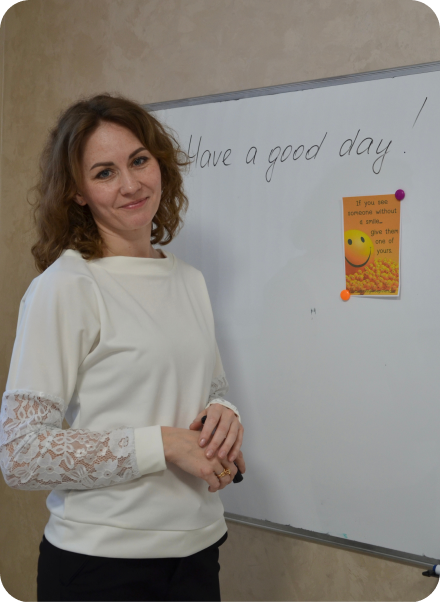
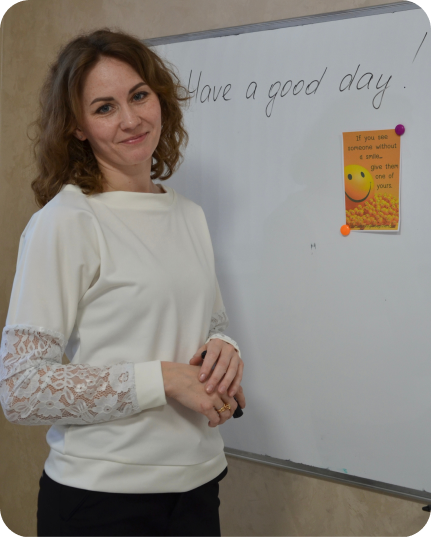
add teachers_cards height_changes

diff --git a/index.html b/index.html
@@ -19,13 +19,18 @@
               <img src="./assets/pictures/Logo.png" alt="Логотип" />
              </div>
              <div class="navigation1" id="navigation1">
-              <a href="#directions"><b>Направления<br>и стоимость</b></a>
-              <a href="#teachers"><b>Педагоги</b></a>
-              <a href="#promotions"><b>Акции</b></a>
-              <a href="#contacts"><b>Контакты</b></a>
-              <a href="https://t.me/hochu_uchitsya_kld"><img src="./assets/pictures/telegram.png" alt="Telegram" /></a>
-              <a href="https://t.me/hochu_uchitsya_kld"><img src="./assets/pictures/vk.png" alt="VK" /></a>
-               <a href="https://wa.me/79992558055"><img src="./assets/pictures/whatsup.png" alt="WhatsApp" /></a>
+              <a href="#"><b>Направления<br>и стоимость</b></a>
+              <a href="#"><b>Педагоги</b></a>
+              <a href="#"><b>Акции</b></a>
+              <a href="#"><b>Контакты</b></a>
+             </div>
+             <div class="header-contacts">
+             <div class="contact-icons">
+                <div class="icon-links">
+                    <a href="https://t.me/hochu_uchitsya_kld"><img src="./assets/pictures/telegram.png" alt="Telegram" /></a>
+                    <a href="https://t.me/hochu_uchitsya_kld"><img src="./assets/pictures/vk.png" alt="VK" /></a>
+                    <a href="https://wa.me/79992558055"><img src="./assets/pictures/whatsup.png" alt="WhatsApp" /></a>
+                </div>
                 <a href="tel:+79992558055" class="no-underline"><b>+7 (999) 255-80-55</b></a>
             </div>
         </div>
@@ -37,10 +42,10 @@
         <input type="checkbox" id="burger-checkbox" class="burger-checkbox" />
         <label for="burger-checkbox" class="burger"></label>
         <ul class="menu-list">
-          <li><a href="#directions" class="menu-item">Направления и стоимость</a></li>
-          <li><a href="#teachers" class="menu-item">Педагоги</a></li>
-          <li><a href="#promotions" class="menu-item">Акции</a></li>
-          <li><a href="#contacts" class="menu-item">Контакты</a></li>
+          <li><a href="/home" class="menu-item">Направления и стоимость</a></li>
+          <li><a href="/portfolio" class="menu-item">Педагоги</a></li>
+          <li><a href="/services" class="menu-item">Акции</a></li>
+          <li><a href="/contact" class="menu-item">Контакты</a></li>
         </ul>
       </div>
     </div>
@@ -71,7 +76,7 @@
     <main>
       
       <!-- Раздел "Направления" с карточками -->
-      <div class="directions" id="directions">
+      <div class="directions">
         <div class="directions__title">Направления</div>
         <div class="directions__cards">
           <div class="card__box" id="card__1">
@@ -275,14 +280,14 @@
       </section>
 
       <!--Раздел Педагоги-->
-      <div class="teachers" id="teachers">
+      <div class="teachers">
         <h2 class="teachers__title">Педагоги</h2>
         <div class="teachers__cards">
           <div class="card__teacher">
             <img
               src="assets/images/teachers/Irina.png"
               alt="Irina Nikolaevna"
-              class="teachers__pic"
+              class="teachers__pic1"
             />
             <h3 class="teachers__name">Ирина Николаевна</h3>
             <p class="teachers__introduction1">
@@ -297,7 +302,7 @@
             <img
               src="assets/images/teachers/Natalya.png"
               alt="Natalya Valerevna"
-              class="teachers__pic"
+              class="teachers__pic2"
             />
             <h3 class="teachers__name">Наталья Валерьевна</h3>
             <p class="teachers__introduction2">Педагог по английскому языку.</p>
@@ -310,7 +315,7 @@
             <img
               src="assets/images/teachers/Ekaterina_Dmitrievna.png"
               alt="Ekaterina Dmitrievna"
-              class="teachers__pic"
+              class="teachers__pic3"
             />
             <h3 class="teachers__name">Екатерина Дмитриевна</h3>
             <p class="teachers__introduction3">
@@ -325,7 +330,7 @@
 
 
       <!-- Раздел Акции -->
-      <div class="promo" id="promotions">
+      <div class="promo">
         <div class="promo__image-background">
           <div class="promo__title">Акции</div> 
         <div class="promo__maintext-first">
@@ -336,7 +341,7 @@
           <p>постоянная скидка на второй курс – 10%.</p></div></div>
       </div>
   <!-- Раздел контакты -->
-  <div class="contacts" id="contacts">
+  <div class="contacts">
     <div class="contacts__adress">
       <div class="contacts__title">Контакты</div> 
     <span class="contacts__adress-titles">Телефон:</span>

diff --git a/assets/styles/style_index.css b/assets/styles/style_index.css
@@ -214,7 +214,7 @@ main {
   align-items: center;
   flex-direction: column;
   max-width: 390px;
-  height: 850px;
+  height: 690px;
   padding: 15px;
   background-color: rgba(198, 231, 218, 0.5);
   border-radius: 25px;
@@ -232,9 +232,9 @@ main {
   flex: 1 250px;
 }
 
-.teachers__pic {
+.teachers__pic1, .teachers__pic2, .teachers__pic3 {
   width: 345px;
-  height: 493px;
+  height: 415px;
   -o-object-fit: cover;
      object-fit: cover;
   border-radius: 25px;

diff --git a/assets/styles/style_index.scss b/assets/styles/style_index.scss
@@ -212,7 +212,7 @@ main{
     align-items: center;
     flex-direction: column;
     max-width: 390px;
-    height: 850px;
+    height: 690px;
     padding: 15px;
     background-color: rgb(198, 231, 218, 0.5);
     border-radius: 25px;
@@ -230,9 +230,9 @@ main{
     flex: 1 250px;
 }
 
-.teachers__pic {
+.teachers__pic1, .teachers__pic2, .teachers__pic3 {
     width: 345px;
-    height: 493px;
+    height: 415px;
     object-fit: cover;
     border-radius: 25px;
 }
